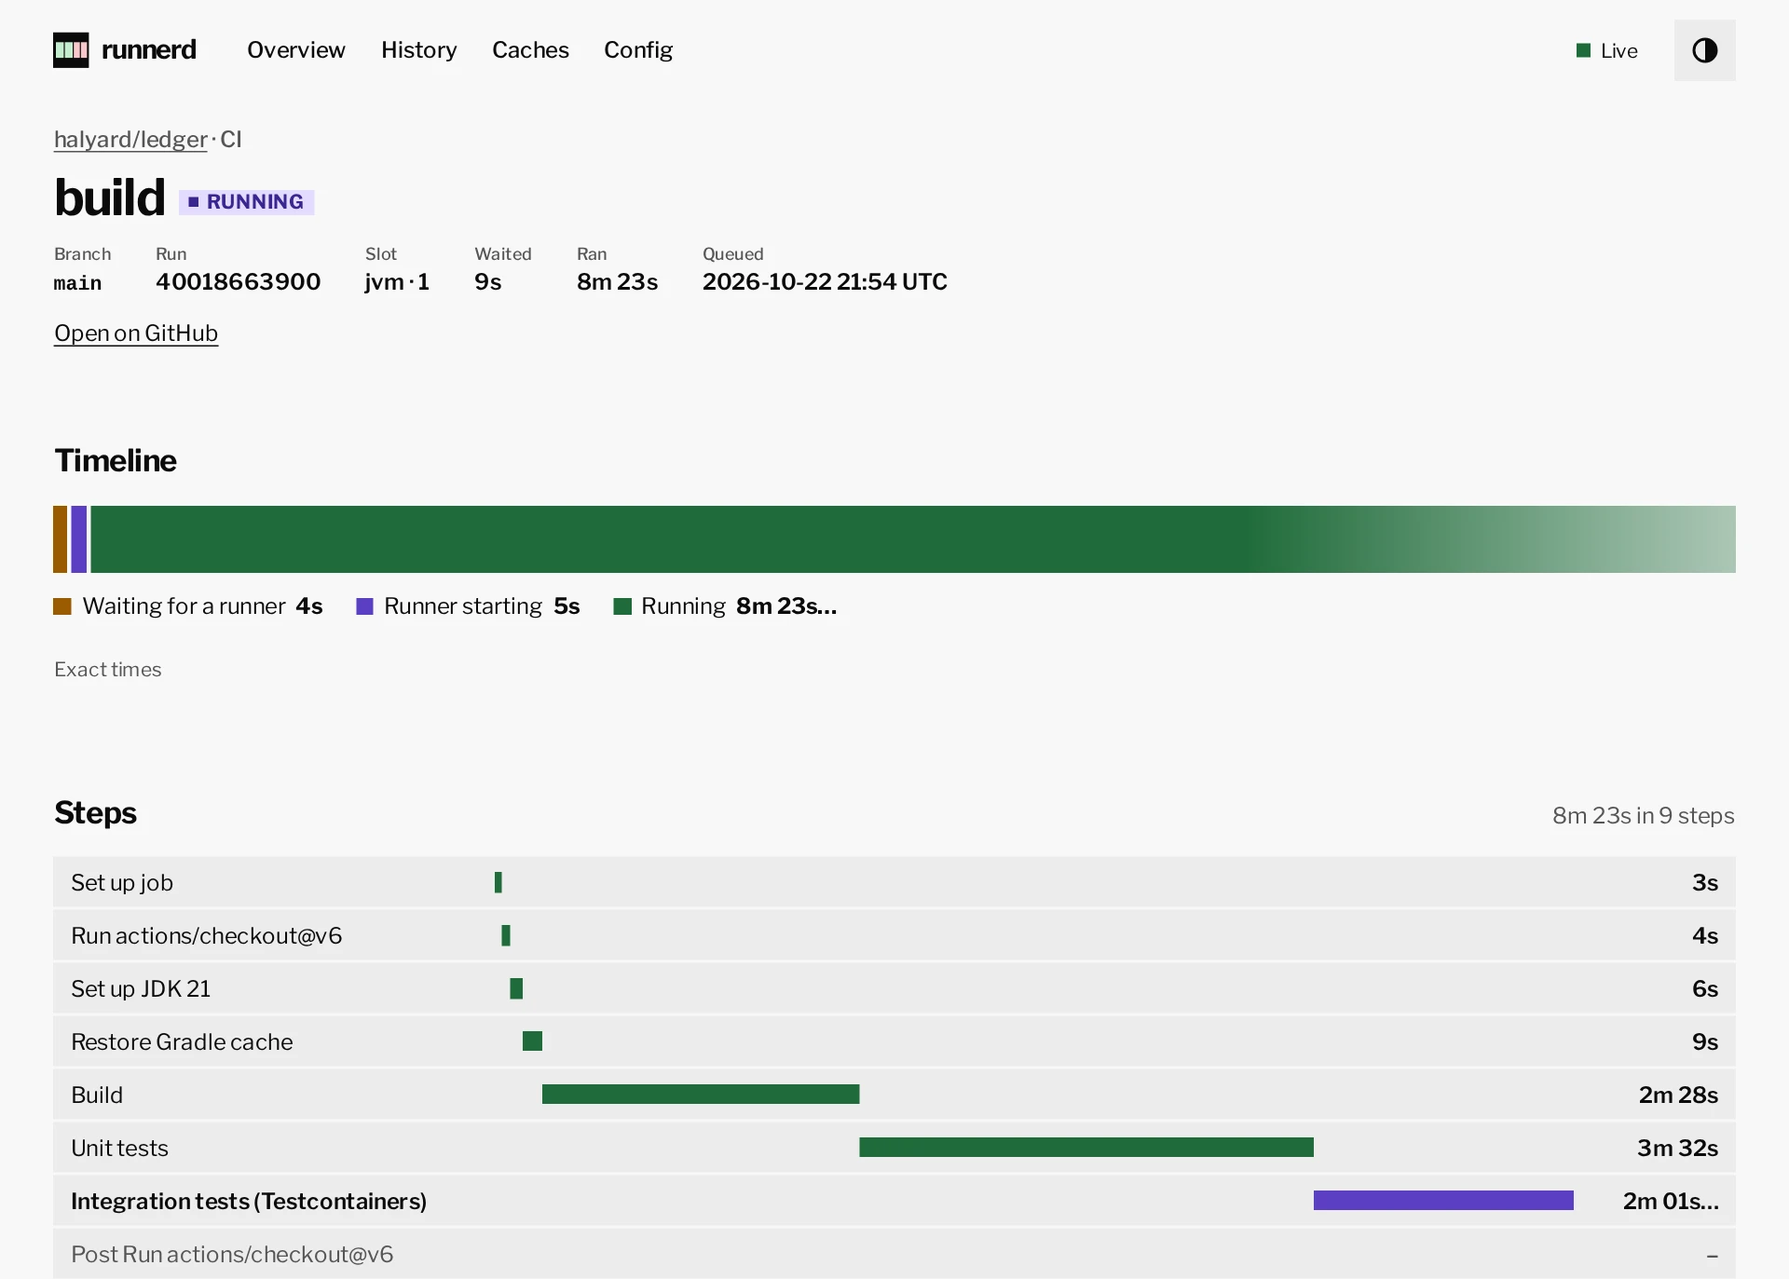
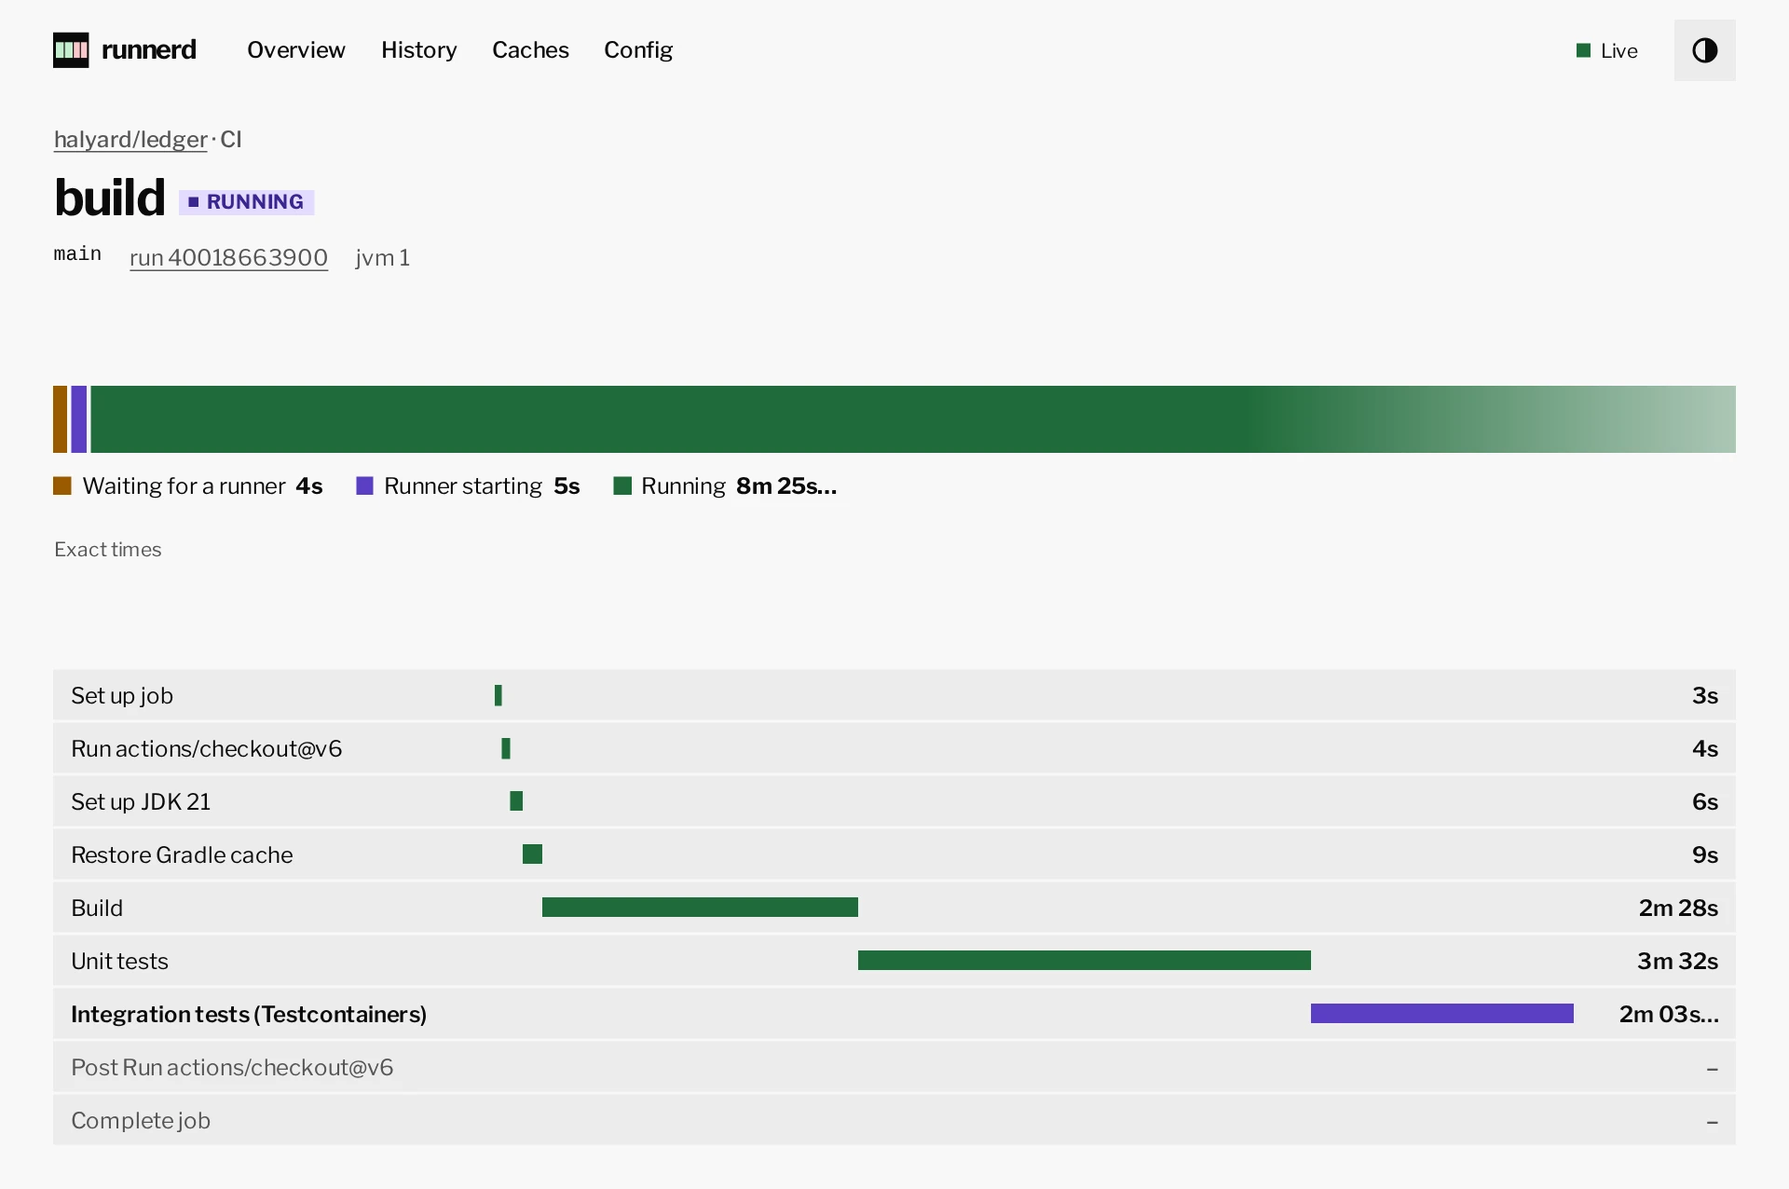
docs: the site for 0.0.5: runnerd init, published images, pausing every repository (#42)
* docs: first run with runnerd init, published runner images and pausing every repository

Install is now install, runnerd init, the root steps it prints and
systemctl --user enable --now runnerd, with init's real output and no
docker build step. Configuration explains image against image_stage,
Running shows the user unit, and the clients page lists pause --all,
resume --all and the TUI's P and U. The landing's install tile and
release strip say 0.0.5.

* fix(site): each replayed slot has its own CPU, and the mirror and free blocks select

main.rs's live formulas depend only on the tick, so every running card
showed the same CPU at a given second: the replay offsets each slot's
tick by its index. As on the dashboard since #34, the mirror and what is
free say what they hold in the readout, with keys under the bar on a
touch screen.

* docs: re-shoot the dashboard after its restyle, and show pause --all and resume --all

The screenshots come from the demo daemon at c4fe7b5, 1280 at 1.5x and
390 at 2x, cropped at the slot cards, the steps and the history's
charts. The transcript is runnerctl against the demo's socket.

* docs: the landing's doctor run shows 0.0.5's image checks, and init's sizing is stated exactly

diff --git a/site/src/scripts/overview.ts b/site/src/scripts/overview.ts
@@ -1,7 +1,9 @@
 // The landing page's dashboard overview, replayed: the web dashboard's demo daemon (crates/web/examples/demo) as a
 // script of what it would show over six minutes. `at(t)` is the whole state at demo second t, so the page renders
 // second 0 at build time and the script only moves t. Every number comes from the demo's own formulas: the fixture's
-// samples up to second 0 (fake.rs, `job`), then the samples main.rs sends every 2 seconds. Nothing here is tuned.
+// samples up to second 0 (fake.rs, `job`), then the samples main.rs sends every 2 seconds. Nothing here is tuned but
+// one thing: main.rs's live formulas depend only on the tick, so every running card would show the same CPU at a
+// given second; the replay offsets each slot's tick by the slot's index.
 
 const GIB = 1024 ** 3;
 const MIB = 1024 ** 2;
@@ -71,6 +73,8 @@ interface Run {
   started: number;
   /** The fixture's samples up to second 0, for the two jobs running when the demo starts. */
   history: Sample[];
+  /** Its slot's index over all profiles, added to main.rs's tick so each card's samples differ. */
+  phase: number;
 }
 
 interface Profile {
@@ -107,12 +111,14 @@ function history(run: Run, noise: Noise): Sample[] {
   return samples;
 }
 
-/** main.rs's live sample of a running job at demo second n (even, from 2): around 1.5 times its first sample. A job
- * the replay starts has no fixture samples; its first is `job`'s formula at progress 0, without the noise. */
+/** main.rs's live sample of a running job at demo second n (even, from 2): around 1.5 times its first sample, at
+ * its slot's phase. A job the replay starts has no fixture samples; its first is `job`'s formula at progress 0,
+ * without the noise. */
 function live(run: Run, n: number): Sample {
   const first = run.history[0]?.memory ?? Math.floor((run.memory * 35) / 100);
   const base = Math.floor((first * 3) / 2);
-  return { at: n, memory: base + ((n * 7919) % 97) * Math.floor(base / 600), cpu: 1500 + ((n * 6151) % 5200) };
+  const k = n + run.phase;
+  return { at: n, memory: base + ((k * 7919) % 97) * Math.floor(base / 600), cpu: 1500 + ((k * 6151) % 5200) };
 }
 
 /** A running job's last sample at demo second t. */
@@ -149,6 +155,7 @@ const run = (repo: string, name: string, steps: Step[], memory: number, containe
   container,
   started,
   history: [],
+  phase: 0,
 });
 const firstLedger = run(ledger, 'build', LEDGER, LEDGER_MEMORY, -427, -422);
 const firstStorefront = run(storefront, 'playwright', STOREFRONT, STOREFRONT_MEMORY, -309, -305);
@@ -171,6 +178,7 @@ const PROFILES: Profile[] = [
     slots: [[firstStorefront], [run(storefront, 'playwright', STOREFRONT, STOREFRONT_MEMORY, -12, 6)]],
   },
 ];
+PROFILES.flatMap((p) => p.slots).forEach((runs, i) => runs.forEach((r) => (r.phase = i)));
 const MAX = 33 * GIB;
 const MIRROR = 512 * MIB;
 export const LOOP = 360;
@@ -233,13 +241,21 @@ export function readout(state: State): string {
 
 const FREE = MAX - MIRROR - PROFILES.reduce((sum, p) => sum + p.memory * p.slots.length, 0);
 
-/** The budget's blocks after the slots, the mirror and what is free, in GiB. */
-export const rest = () => ({ mirror: MIRROR / GIB, free: FREE / GIB });
+/** The budget's blocks after the slots, the mirror and what is free: their share in GiB and their labels. */
+export const rest = () => ({
+  mirror: { size: MIRROR / GIB, label: size(MIRROR) },
+  free: { size: FREE / GIB, label: size(FREE) },
+});
 
 /** The lens: a line per slot saying what it holds, all in one place and hidden but for the selected slot's, so the
  * readout is as tall as its longest line and selecting a slot moves nothing. */
 export function lenses(state: State, selected: string | null): string {
-  return state.slots.map((slot) => `<span${slot.key === selected ? ' class="on"' : ''}>${lens(slot)}</span>`).join('');
+  const lines: [string, string][] = [
+    ...state.slots.map((slot): [string, string] => [slot.key, lens(slot)]),
+    ['other', `<strong>${size(MIRROR)}</strong> held by the mirror and seed containers`],
+    ['free', `<strong>${size(FREE)}</strong> of ${size(MAX)} free`],
+  ];
+  return lines.map(([key, line]) => `<span${key === selected ? ' class="on"' : ''}>${line}</span>`).join('');
 }
 
 /** What one slot holds, its figure in bold. */
@@ -268,7 +284,7 @@ export function barLabel(state: State): string {
     const what = slot.state === 'busy' ? `${slot.run!.name} on ${slot.run!.repo}` : slot.state === 'starting' ? `a runner for ${slot.run!.repo}` : 'idle';
     return `${slot.profile.name} ${slot.number} ${size(slot.profile.memory)}, ${what}`;
   });
-  return `Memory budget of ci.slice: ${size(state.reserved)} of ${size(MAX)} reserved; ${slots.join('; ')}; 512M mirror`;
+  return `Memory budget of ci.slice: ${size(state.reserved)} of ${size(MAX)} reserved; ${slots.join('; ')}; ${size(MIRROR)} mirror; ${size(FREE)} free`;
 }
 
 /** A sparkline from the job's start or five minutes back, whichever is later, in the dashboard's 1000 by 100 box:
@@ -318,6 +334,7 @@ export function steps(slot: Slot): string {
 export function mount(root: HTMLElement) {
   const blocks = new Map([...root.querySelectorAll<HTMLElement>('[data-block]')].map((el) => [el.dataset.block!, el]));
   const cards = new Map([...root.querySelectorAll<HTMLElement>('[data-card]')].map((el) => [el.dataset.card!, el]));
+  const keys = new Map([...root.querySelectorAll<HTMLElement>('[data-key]')].map((el) => [el.dataset.key!, el]));
   const bar = root.querySelector<HTMLElement>('[data-bar]')!;
   const readoutEl = root.querySelector<HTMLElement>('[data-readout]')!;
   const lensEl = root.querySelector<HTMLElement>('[data-lens]')!;
@@ -362,6 +379,10 @@ export function mount(root: HTMLElement) {
       const stepsEl = cardEl.querySelector<HTMLElement>('[data-steps]')!;
       stepsEl.toggleAttribute('data-open', picked === slot.key && slot.rows > 0);
       set(stepsEl, picked === slot.key ? steps(slot) : '');
+    }
+    for (const key of ['other', 'free']) {
+      blocks.get(key)!.classList.toggle('linked', key === hovered);
+      keys.get(key)!.classList.toggle('linked', key === hovered);
     }
     scrub.value = String(Math.floor(t));
     const time = `${Math.floor(t / 60)}:${String(Math.floor(t % 60)).padStart(2, '0')}`;
@@ -408,6 +429,8 @@ export function mount(root: HTMLElement) {
     el.addEventListener('pointerleave', (e) => e.pointerType === 'mouse' && hovered === key && hover(null));
   }
   for (const [key, el] of blocks) el.addEventListener('click', () => pick(key));
+  // On a touch screen the mirror and what is free are too thin to tap: keys under the bar select them instead.
+  for (const [key, el] of keys) el.addEventListener('click', () => hover(hovered === key ? null : key));
   for (const [key, el] of cards) {
     const button = el.querySelector<HTMLElement>('[data-pick]')!;
     button.addEventListener('focus', () => hover(key));

diff --git a/site/src/content/docs/install.md b/site/src/content/docs/install.md
@@ -1,64 +1,93 @@
 ---
 title: Install
-description: Install runnerd and runnerctl on a Linux host and check that the host can run runners.
+description: Install runnerd, write a starter config and a user unit with runnerd init, and start the service.
 ---
-
-runnerd is early. Releases are Linux builds for x86_64 and aarch64.
 
 ## What the host needs
 
 - Linux with cgroup v2, and Docker with the systemd cgroup driver.
 - [Sysbox](https://github.com/nestybox/sysbox), so runner containers run Docker unprivileged: `.deb` packages, the AUR package `sysbox-ce-bin` on Arch Linux, or a source build.
-- A systemd slice whose `MemoryMax` is the budget for all runners.
+- A systemd slice whose `MemoryMax` is the budget for all runners. `runnerd init` prints one sized for the host.
 - The [GitHub CLI](https://cli.github.com), logged in with the `repo` scope.
 
-`runnerd doctor` checks each of these and prints the fix for what is missing.
+The binaries are built for x86_64 and aarch64. The runner images are linux/amd64 only, so on aarch64 runners do not start yet.
 
-## Install
+## First run
 
 ```sh
 curl -fsSL https://github.com/ayagmar/runnerd/releases/latest/download/install.sh | sh
+runnerd init halyard/ledger halyard/storefront
 ```
 
-It downloads `runnerd` and `runnerctl` from the latest release, checks their SHA-256, copies them to `~/.local/bin` and runs `runnerd doctor`. It never uses sudo and installs nothing else. `--prefix DIR` installs into `DIR/bin`, `--version v0.0.1` picks a release:
+The installer checks the SHA-256 of `runnerd` and `runnerctl`, copies them to `~/.local/bin` and runs `runnerd doctor`. It never uses sudo.
+
+`init` writes two files, runs the doctor against them and prints what is left. On a 62G, 32-CPU host with no slice yet:
+
+```text
+$ runnerd init halyard/ledger halyard/storefront
+wrote ~/.config/runnerd/runnerd.toml: 5 slots of 8G and 6 CPUs in runnerd.slice (46.5G)
+wrote ~/.config/systemd/user/runnerd.service
+
+runnerd doctor:
+ok    Docker: reachable, Docker 29.9.2
+ok    cgroups: cgroup v2 with the systemd driver
+info  isolation: sysbox: runners run unprivileged
+ok    sysbox: Docker has the sysbox-runc runtime and sysbox's services run
+FAIL  slice: runnerd.slice has no unit file with a MemoryMax, so nothing holds runners to the budget
+      fix: sudo tee /etc/systemd/system/runnerd.slice >/dev/null <<'EOF'
+           [Slice]
+           MemoryMax=46.5G
+           EOF
+           sudo systemctl daemon-reload
+ok    config: valid, with warnings: the slice runnerd.slice has no MemoryMax, so nothing holds runners to their 40.5G of caps; install a unit file for it
+ok    image: ghcr.io/ayagmar/runnerd-runner:base-0.0.5: not pulled yet; runnerd pulls it before the first runner
+ok    gh: logged in to github.com with the repo scope
+info  /dev/kvm: present, for a future Kata Containers backend
+
+First run the fixes above for slice; runnerd init runs nothing as root.
+Start runnerd and have it start at login; it pulls ghcr.io/ayagmar/runnerd-runner:base-0.0.5 before the first runner:
+  systemctl --user daemon-reload
+  systemctl --user enable --now runnerd
+  runnerctl status
+To keep it running while you are logged out: loginctl enable-linger "$USER"
+```
+
+Run the root commands your `init` printed, then:
 
 ```sh
-curl -fsSL https://github.com/ayagmar/runnerd/releases/latest/download/install.sh | sh -s -- --prefix /opt/runnerd
+systemctl --user daemon-reload
+systemctl --user enable --now runnerd
+runnerctl status
+```
+
+| Flag | |
+|---|---|
+| `--slice NAME` | another slice than `runnerd.slice` |
+| `--config PATH` | write the config elsewhere |
+| `--force` | replace files that exist; without it `init` writes neither |
+
+`init` sizes slots of up to 8G, one per 4 CPUs, inside three quarters of the host's memory, or the slice's `MemoryMax` if smaller. [Configuration](../configuration/) says what to change.
+
+## Pick a directory or release
+
+```sh
+curl -fsSL https://github.com/ayagmar/runnerd/releases/latest/download/install.sh | sh -s -- --prefix /opt/runnerd --version v0.0.5
+```
+
+From crates.io, `runnerctl` is in `runnerd-cli`:
+
+```sh
+cargo install --locked runnerd runnerd-cli   # Rust 1.99 or later
+cargo binstall runnerd runnerd-cli           # the release archives
 ```
 
 ## Verify a release
 
-Every release archive, `install.sh` and `sha256.sum` has a GitHub build provenance attestation:
+Every release archive, `install.sh` and `sha256.sum` has a GitHub build provenance attestation, and so does every runner image:
 
 ```sh
 curl -fsSLO https://github.com/ayagmar/runnerd/releases/latest/download/install.sh
 gh attestation verify install.sh -R ayagmar/runnerd
 sh install.sh
-gh attestation verify runnerd-x86_64-unknown-linux-musl.tar.xz -R ayagmar/runnerd
-```
-
-## Check the host
-
-Given a config, `doctor` also checks the slice it names and that the config fits:
-
-```text
-$ runnerd doctor runnerd.toml
-ok    Docker: reachable, Docker 29.9.2
-ok    cgroups: cgroup v2 with the systemd driver
-info  isolation: sysbox: runners run unprivileged
-ok    sysbox: Docker has the sysbox-runc runtime and sysbox's services run
-ok    slice: ci.slice (/etc/systemd/system/ci.slice): MemoryMax=33G, CPU quota infinity
-ok    config: fits in ci.slice
-ok    gh: logged in to github.com with the repo scope
-info  /dev/kvm: present, for a future Kata Containers backend
-```
-
-A failed check prints its fix under it, and `doctor` exits non-zero. Here the config names a slice with no unit file:
-
-```text
-FAIL  slice: demo.slice has no unit file with a MemoryMax, so nothing holds runners to the budget
-      fix: create /etc/systemd/system/demo.slice with
-           [Slice]
-           MemoryMax=32.5G
-           then: sudo systemctl daemon-reload
+gh attestation verify oci://ghcr.io/ayagmar/runnerd-runner:base-0.0.5 --repo ayagmar/runnerd
 ```

diff --git a/site/src/content/docs/running.md b/site/src/content/docs/running.md
@@ -1,36 +1,44 @@
 ---
 title: Running
-description: Start the runnerd daemon, how it schedules runners and keeps caches warm, and its JSON API.
+description: Run runnerd as a user service, how it schedules runners and keeps caches warm, and its JSON API.
 ---
 
-## Build the runner image
+## The service
 
-runnerd runs the image `runnerd-runner:<image_stage>`. In a checkout of the repository, `image/Dockerfile` has a `base` stage and, on it, the `jvm` and `node` stages the [example config](../configuration/) uses. Add a stage on `base` for any other `image_stage`.
+`runnerd init` writes a user unit that runs `runnerd serve`:
 
-Then build both:
+```ini
+[Service]
+Type=exec
+ExecStart="/home/dana/.local/bin/runnerd" serve --config "/home/dana/.config/runnerd/runnerd.toml"
+Restart=on-failure
+RestartSec=10
 
-```sh
-docker build --target jvm -t runnerd-runner:jvm image
-docker build --target node -t runnerd-runner:node image
+[Install]
+WantedBy=default.target
 ```
 
-## Start and stop the daemon
-
 ```sh
-runnerd serve --config runnerd.toml
+systemctl --user enable --now runnerd   # start now and at login
+loginctl enable-linger "$USER"          # keep it running while you are logged out
+journalctl --user -u runnerd -f         # its log
+systemctl --user restart runnerd        # after editing runnerd.toml by hand
+systemctl --user stop runnerd           # waits for running jobs, up to systemd's stop timeout
 ```
 
-Without `--config`, it reads `$XDG_CONFIG_HOME/runnerd/runnerd.toml`. It takes the `gh` CLI's token at start and again when GitHub rejects it.
+A config saved from the dashboard or `PUT /v1/config` applies without a restart. `runnerd stop` waits for running jobs too; `runnerd stop --force`, or a second signal, kills them.
 
-SIGTERM, SIGINT or `runnerd stop` stops polling and waits for running jobs. A second signal, or `runnerd stop --force`, kills them.
+Runner containers live in Docker, not in the unit: a restarted runnerd adopts the ones still running, and keeps the repositories it had paused paused.
 
 ## How it schedules
 
+- It reads the `gh` CLI's token at start, and again when GitHub rejects it.
 - Every `poll_interval` (`[host]`, default `15s`) it asks GitHub for each repository's queued jobs.
 - A job is served when every label in its `runs-on` is in its repository's `labels`.
 - For each one it registers a just-in-time runner and starts it in a free slot of the repository's profile, if the slice's `MemoryMax` still has room for the profile's `memory`. Other jobs wait in GitHub's queue.
 - The runner takes one job, its container exits, and runnerd removes it. A runner with no job after 5 minutes is removed.
 - A restarted runnerd adopts the runner containers still running and deletes this host's runners that have none.
+- Before a profile's first runner it pulls the profile's `image`, logging the pull's progress.
 
 ## Warm caches
 
@@ -52,11 +60,14 @@ JSON on `$XDG_RUNTIME_DIR/runnerd.sock`, mode 0600: only the user runnerd runs a
 | `GET /v1/status` | profiles and their slots, running runners, repositories with their queued jobs, the memory budget |
 | `POST /v1/repositories/{owner}/{name}/pause?force=` | no new runners; `409` naming the running job, unless `force=true` cancels its run |
 | `POST /v1/repositories/{owner}/{name}/resume` | `204` |
+| `POST /v1/repositories/pause?force=`, `POST /v1/repositories/resume` | the same for every repository; `409` naming the running jobs pauses none |
 | `POST /v1/profiles/{name}/reseed` | `202`; reseeds once the profile's slots are free |
 | `POST /v1/caches/{name}/clean` | `204`; `409` naming the jobs that use it |
 | `GET /v1/config`, `PUT /v1/config`, `POST /v1/config/check` | the config file; replace it and reload, or check one |
 | `GET /v1/doctor` | `runnerd doctor`'s checks |
 | `POST /v1/shutdown` with `{"force": false}` | `202` |
+
+A pause lasts until a resume, across restarts.
 
 ```sh
 curl --unix-socket "$XDG_RUNTIME_DIR/runnerd.sock" http://runnerd/v1/status

diff --git a/site/src/content/docs/configuration.md b/site/src/content/docs/configuration.md
@@ -3,7 +3,7 @@ title: Configuration
 description: The runnerd.toml file, runner profiles, and the memory budget check.
 ---
 
-One file, `runnerd.toml`: the repositories to serve, the profile each one runs on, the shared caches, and the systemd slice whose `MemoryMax` is the budget.
+One file, `~/.config/runnerd/runnerd.toml`: the repositories to serve, the profile each one runs on, the shared caches, and the systemd slice whose `MemoryMax` is the budget. `runnerd init` writes a starter one.
 
 ## An example
 
@@ -24,13 +24,13 @@ maven = { max_size = "5G" }
 reseed_at = "2G"
 
 [profiles.jvm]
-image_stage = "jvm"
+image = "ghcr.io/ayagmar/runnerd-runner:jvm-0.0.5"
 cpus = 8
 memory = "9G"
 slots = 2
 
 [profiles.node]
-image_stage = "node"
+image = "ghcr.io/ayagmar/runnerd-runner:node-0.0.5"
 cpus = 8
 memory = "7G"
 slots = 2
@@ -48,16 +48,31 @@ labels = ["self-hosted", "linux", "x64", "node"]
 
 | Key | Means |
 |---|---|
-| `image_stage` | the stage of the [runner image](https://github.com/ayagmar/runnerd/tree/main/image) the profile runs |
+| `image` | the runner image the profile runs; see [below](#runner-images) |
 | `cpus`, `memory` | each runner's caps |
 | `slots` | how many runners of the profile may run at once |
 | `labels` | what the repository's workflows ask for in `runs-on` |
 
 Sizes take a binary unit (`K`, `M`, `G`, `T`), as Docker and systemd use them.
 
+## Runner images
+
+[`image/Dockerfile`](https://github.com/ayagmar/runnerd/tree/main/image) has a stage per profile on a common base: `base`, `jvm`, `node`. Each release publishes every stage, for linux/amd64. A profile sets one of:
+
+| Key | Runs | Pulled |
+|---|---|---|
+| `image = "ghcr.io/ayagmar/runnerd-runner:jvm-0.0.5"` | the published stage | before the profile's first runner |
+| `image_stage = "jvm"` | `runnerd-runner:jvm`, built on this host | never |
+
+Keep the tag at the daemon's version: the image's scripts and the daemon change together, and `runnerd doctor` warns when they differ. To run your own changes to `image/`, build the stage from a clone and set `image_stage`:
+
+```sh
+docker build --target jvm -t runnerd-runner:jvm image
+```
+
 ## The budget check
 
-`check-config` reads the slice's `MemoryMax` from systemd, or takes `--memory-max`, and fails when `slots × memory` over all profiles plus the mirror does not fit:
+`runnerd check-config [file]`, by default on `~/.config/runnerd/runnerd.toml`, reads the slice's `MemoryMax` from systemd, or takes `--memory-max`, and fails when `slots × memory` over all profiles plus the mirror does not fit:
 
 ```text
 $ runnerd check-config runnerd.toml
